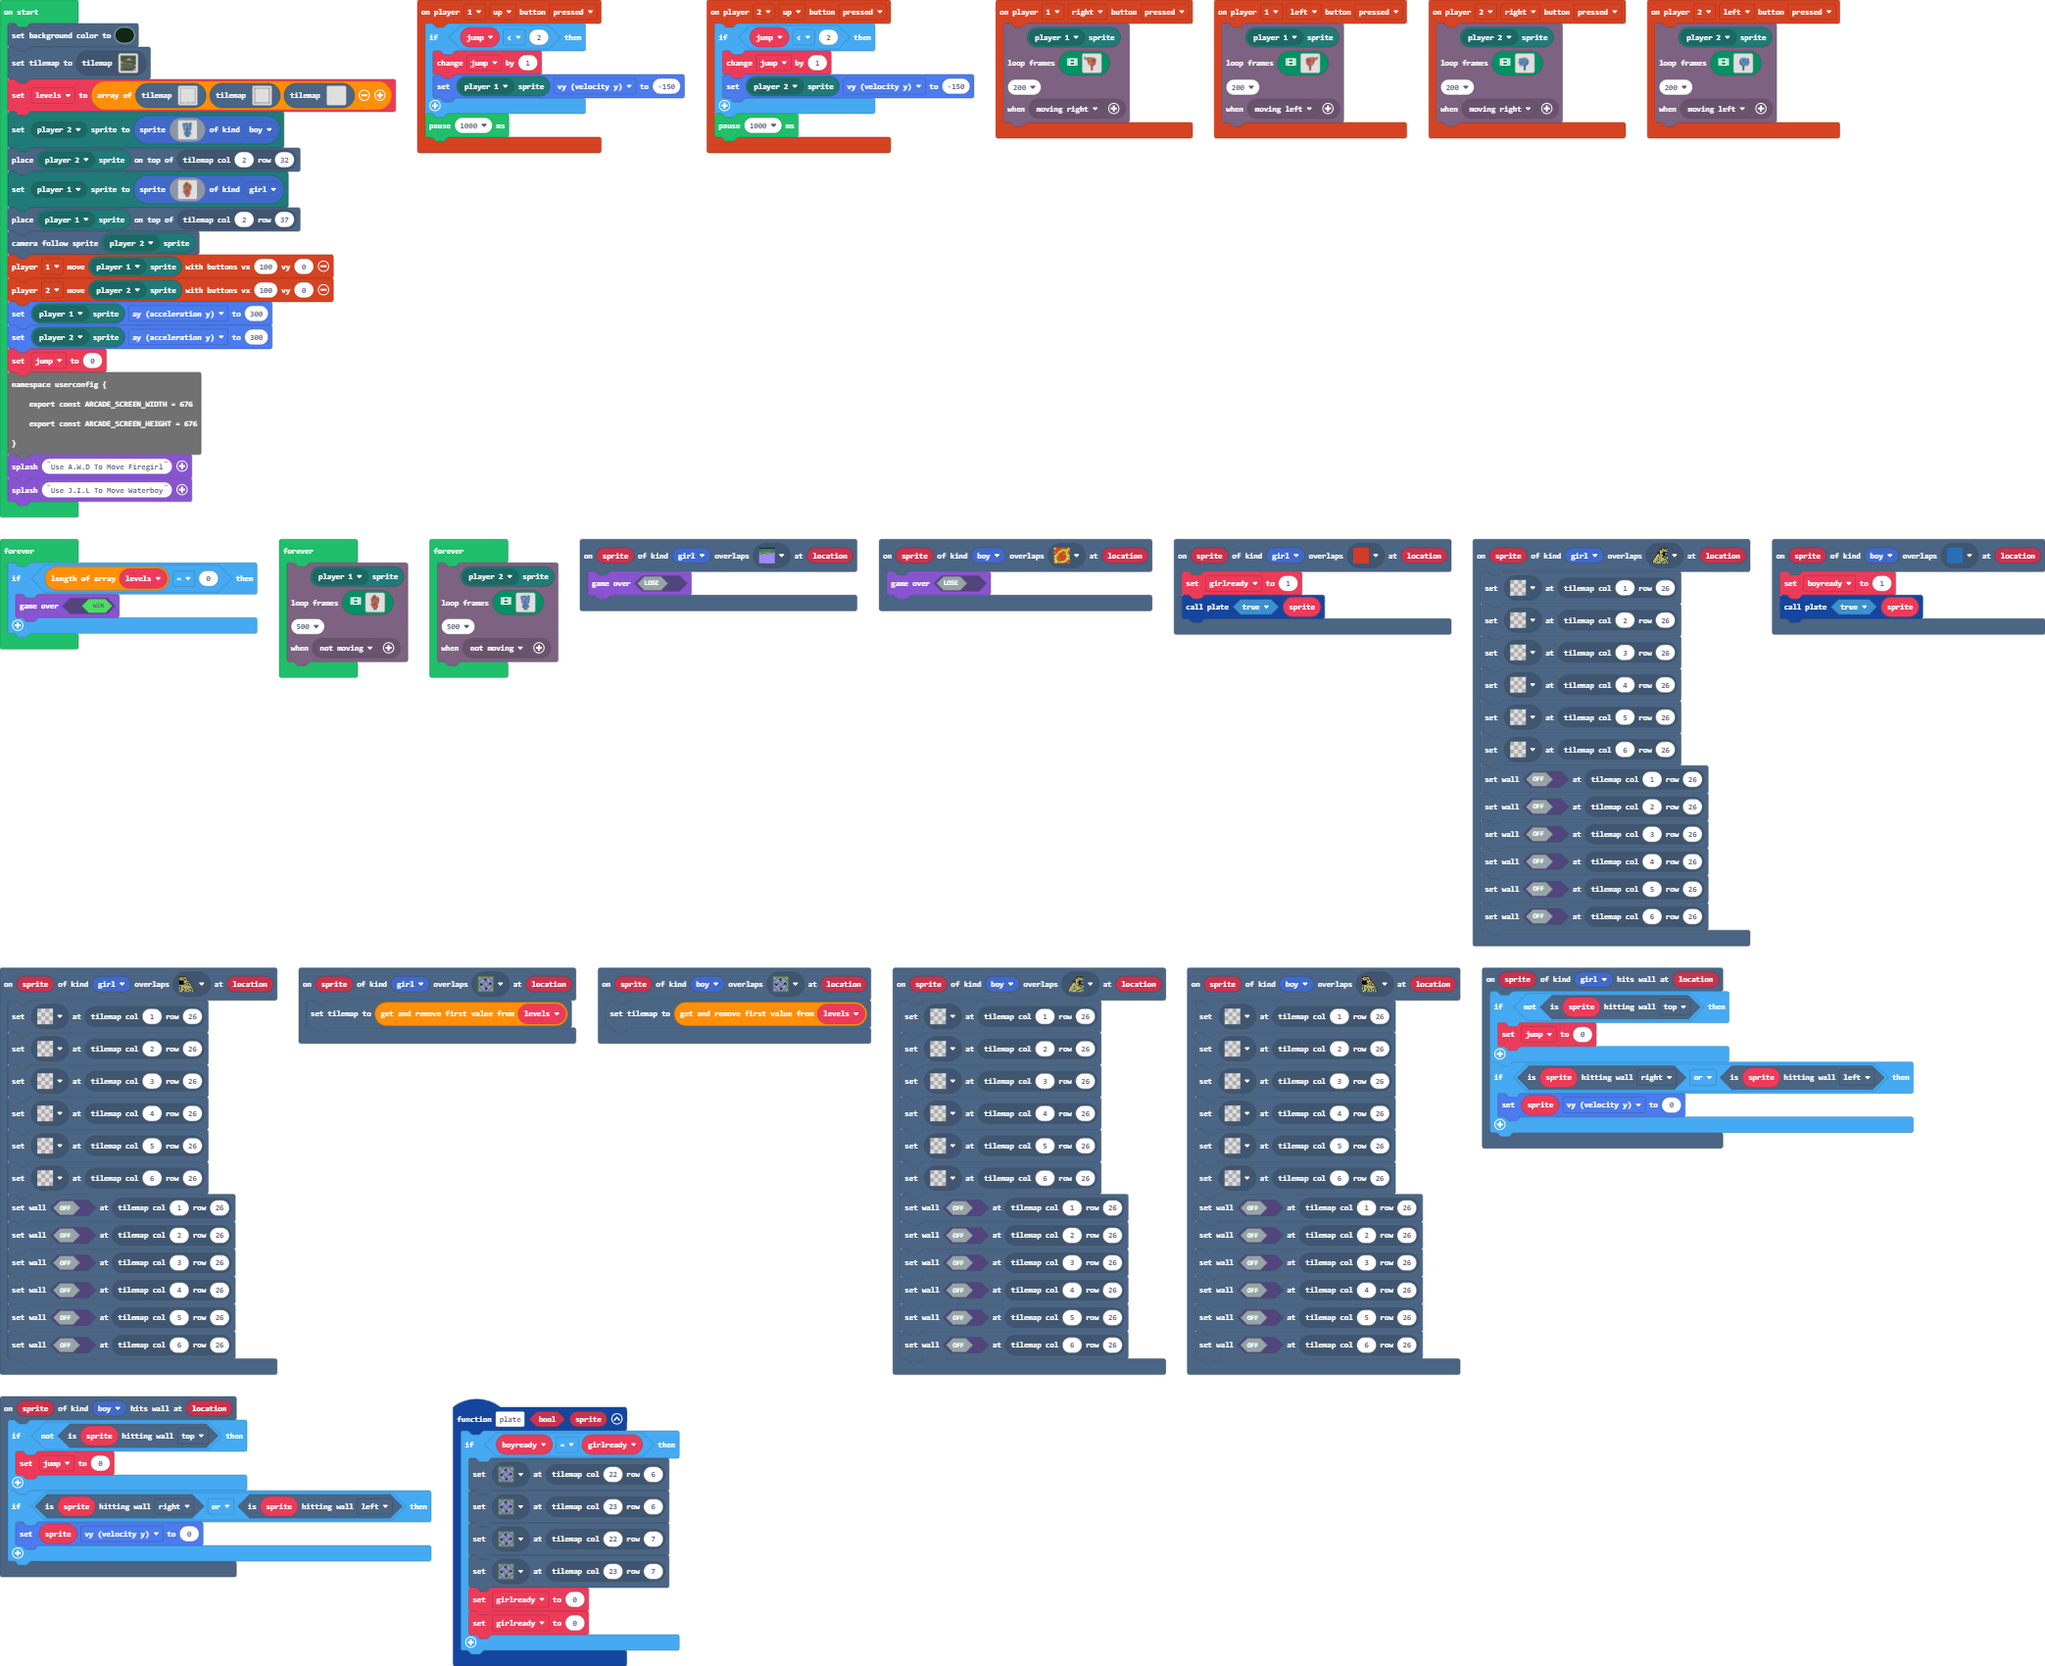
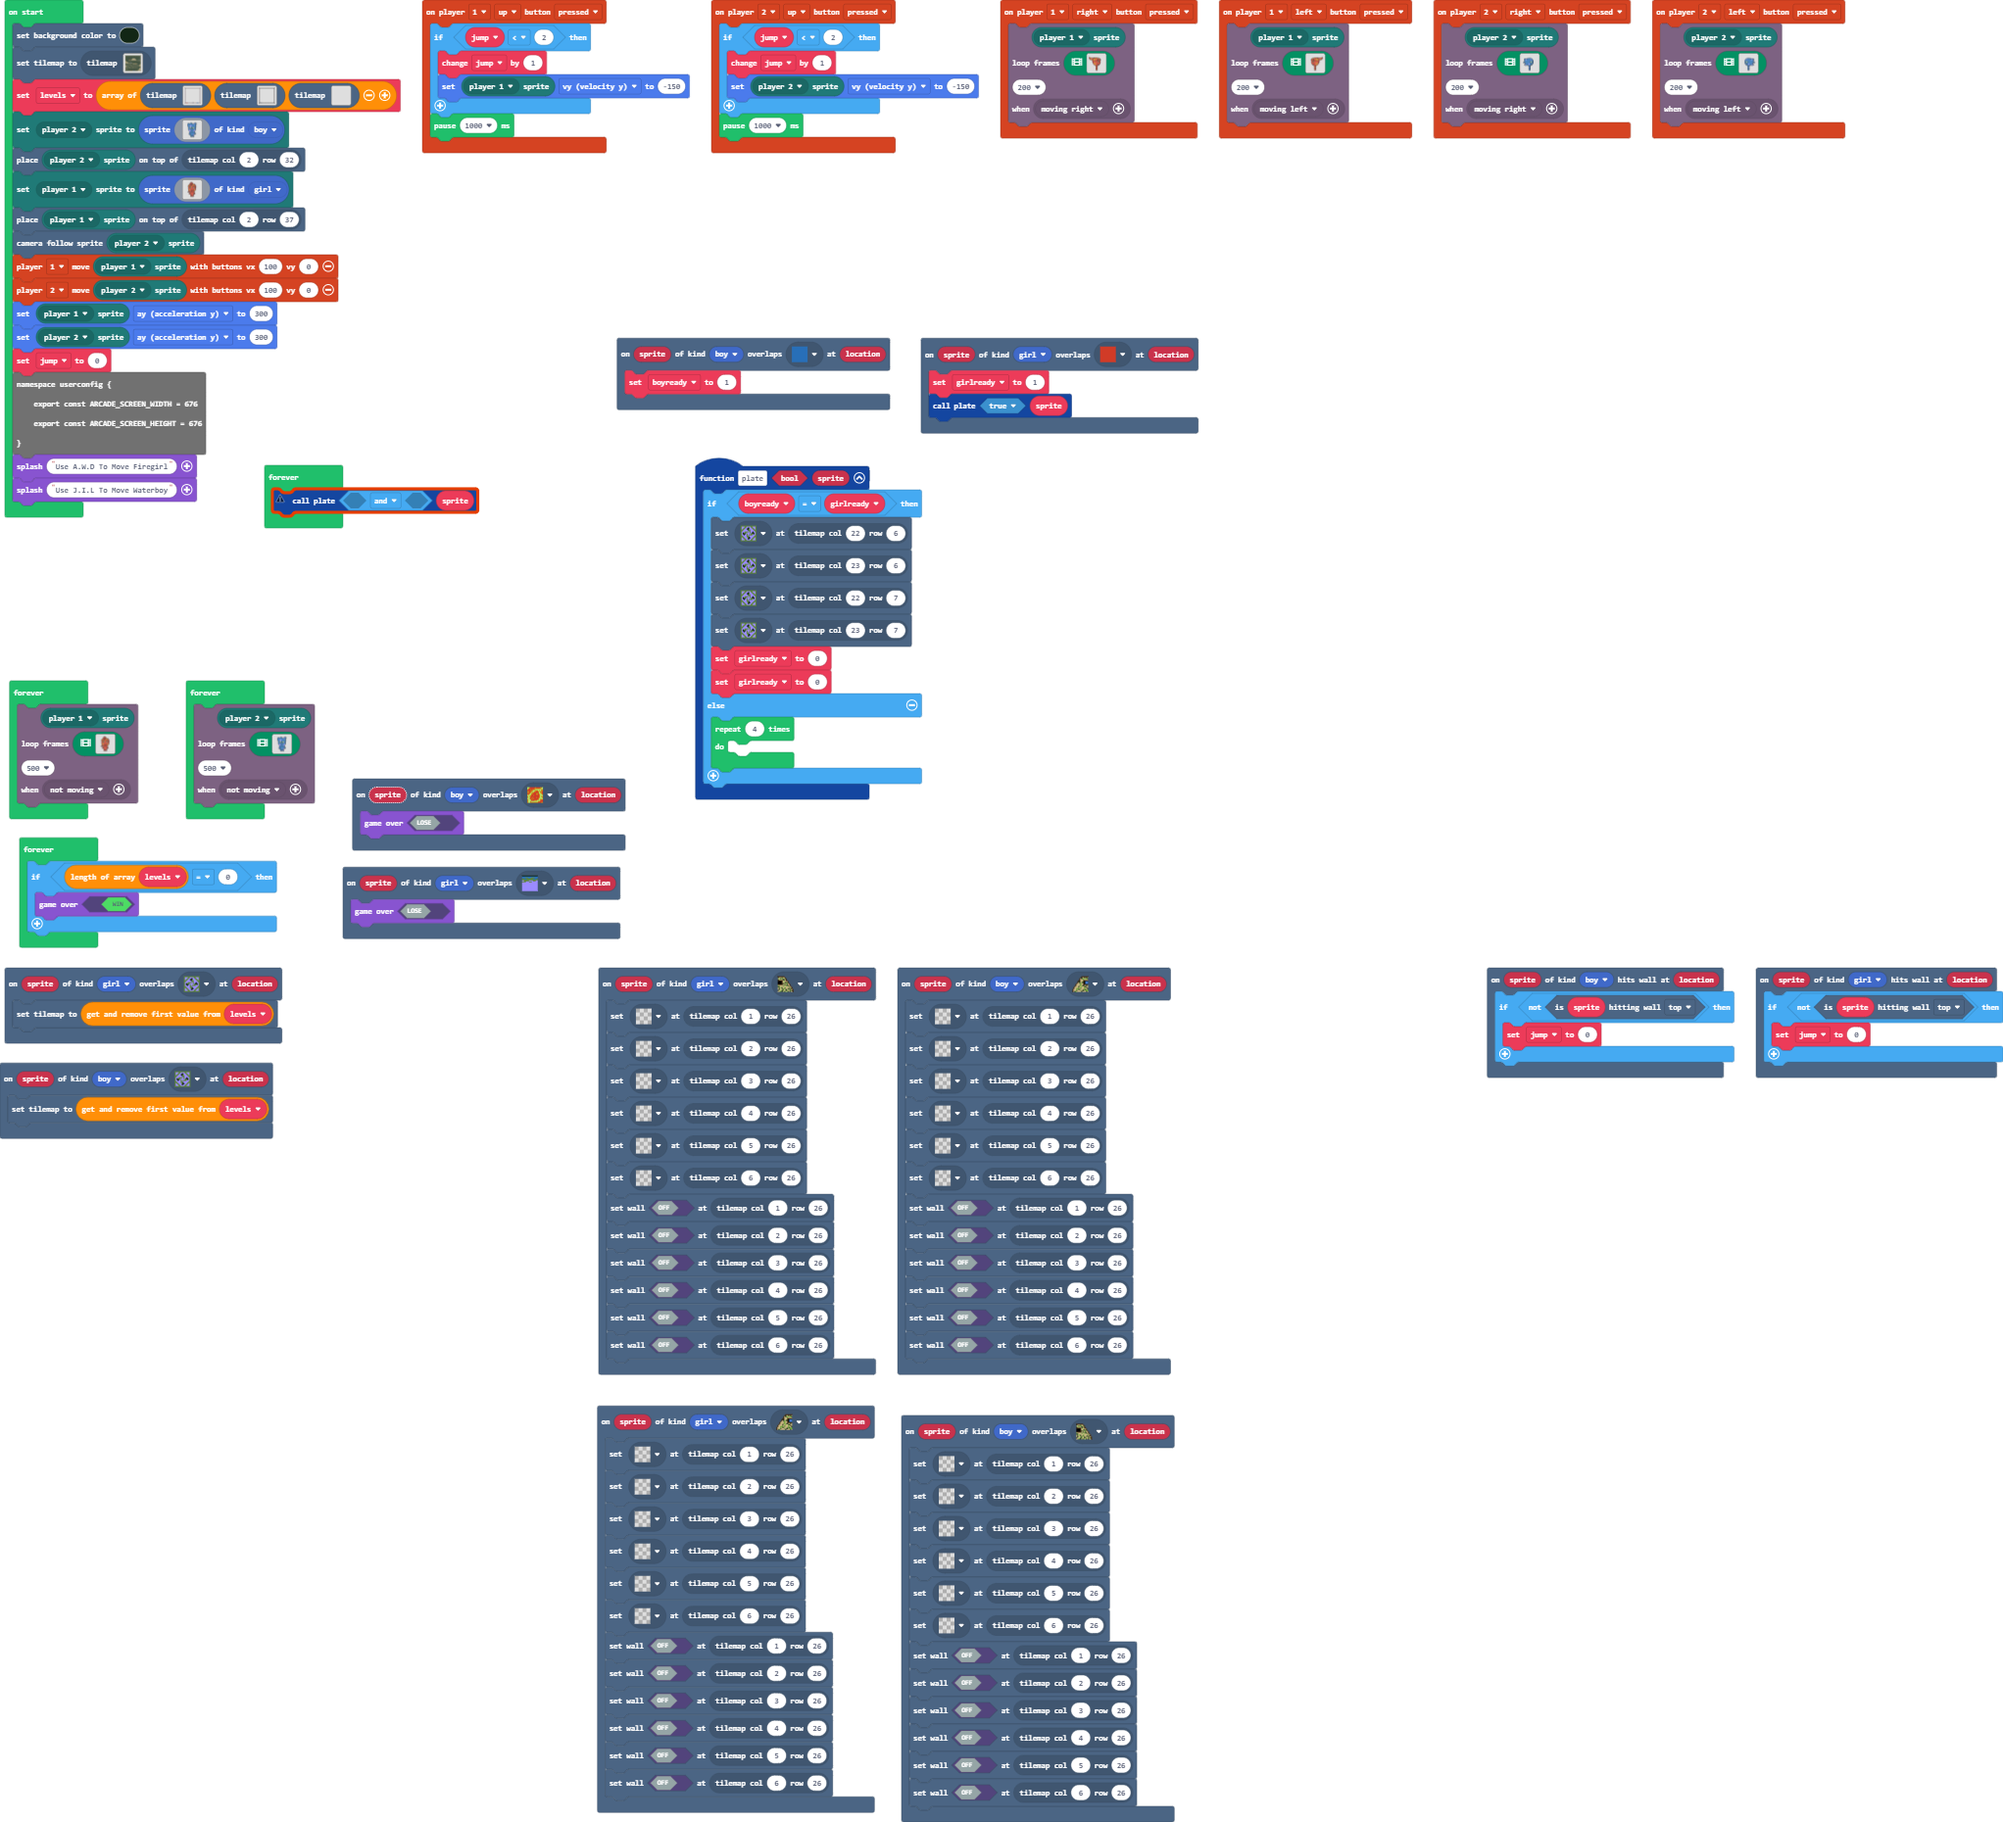
Update main.blocks, main.ts

diff --git a/main.ts b/main.ts
@@ -18,7 +18,6 @@ scene.onOverlapTile(SpriteKind.girl, assets.tile`myTile2`, function (sprite, loc
 })
 scene.onOverlapTile(SpriteKind.boy, assets.tile`myTile0`, function (sprite, location) {
     boyready = 1
-    plate(true, sprite)
 })
 scene.onOverlapTile(SpriteKind.girl, assets.tile`myTile1`, function (sprite, location) {
     tiles.setTileAt(tiles.getTileLocation(1, 26), assets.tile`transparency16`)
@@ -53,6 +52,10 @@ function plate (bool: boolean, sprite: Sprite) {
         tiles.setTileAt(tiles.getTileLocation(23, 7), sprites.dungeon.collectibleInsignia)
         girlready = 0
         girlready = 0
+    } else {
+        for (let index = 0; index < 4; index++) {
+        	
+        }
     }
 }
 scene.onOverlapTile(SpriteKind.girl, sprites.dungeon.hazardWater, function (sprite, location) {
@@ -68,9 +71,6 @@ controller.player2.onButtonEvent(ControllerButton.Up, ControllerButtonEvent.Pres
 scene.onHitWall(SpriteKind.girl, function (sprite, location) {
     if (!(sprite.isHittingTile(CollisionDirection.Top))) {
         jump = 0
-    }
-    if (sprite.isHittingTile(CollisionDirection.Right) || sprite.isHittingTile(CollisionDirection.Left)) {
-        sprite.vy = 0
     }
 })
 controller.player2.onButtonEvent(ControllerButton.Right, ControllerButtonEvent.Pressed, function () {
@@ -655,9 +655,6 @@ scene.onHitWall(SpriteKind.boy, function (sprite, location) {
     if (!(sprite.isHittingTile(CollisionDirection.Top))) {
         jump = 0
     }
-    if (sprite.isHittingTile(CollisionDirection.Right) || sprite.isHittingTile(CollisionDirection.Left)) {
-        sprite.vy = 0
-    }
 })
 scene.onOverlapTile(SpriteKind.boy, sprites.dungeon.collectibleInsignia, function (sprite, location) {
     tiles.setCurrentTilemap(levels.shift())
@@ -694,9 +691,7 @@ namespace userconfig {
 game.splash("Use A.W.D To Move Firegirl")
 game.splash("Use J.I.L To Move Waterboy")
 forever(function () {
-    if (levels.length == 0) {
-        game.gameOver(true)
-    }
+    plate(false && false, sprite)
 })
 forever(function () {
     characterAnimations.loopFrames(
@@ -843,4 +838,9 @@ forever(function () {
     500,
     characterAnimations.rule(Predicate.NotMoving)
     )
+})
+forever(function () {
+    if (levels.length == 0) {
+        game.gameOver(true)
+    }
 })
